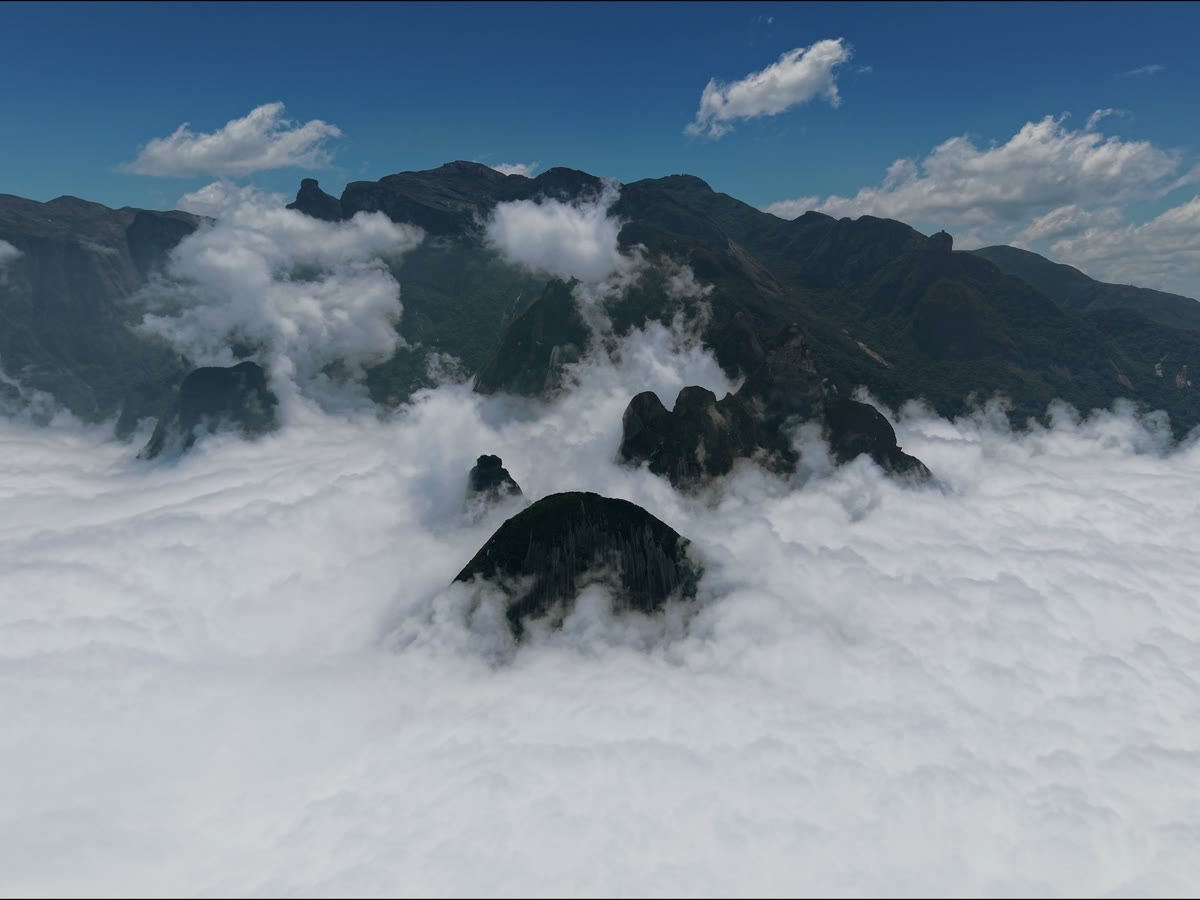
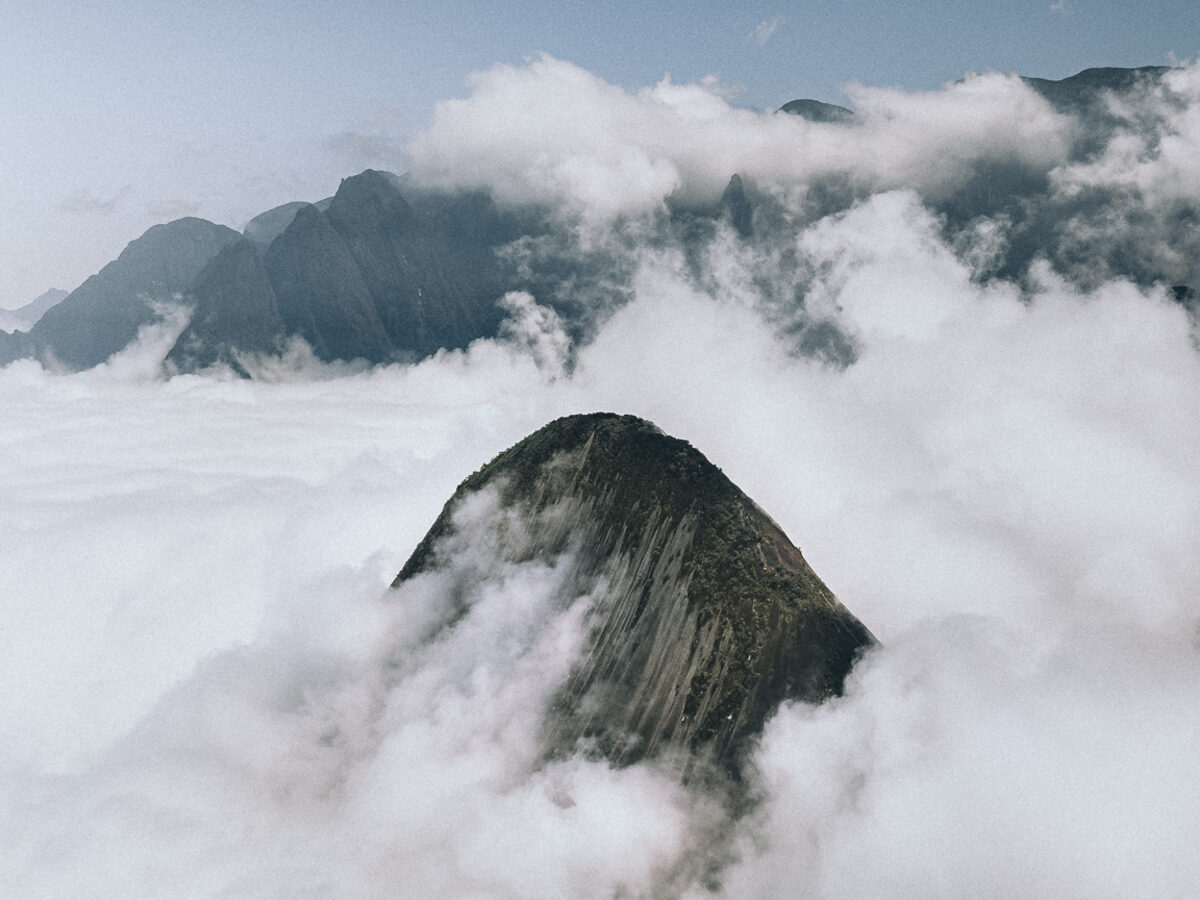
fix: usa as capas oficiais dos Reels em destaque, recortadas em 4:3

diff --git a/app/midiakit/page.tsx b/app/midiakit/page.tsx
@@ -688,8 +688,8 @@ export default function MidiakitPage() {
               <article>
                 <a href="https://www.instagram.com/reel/DeADZizhfHB/">
                   <img
-                    src="/images/quadros/A%20CASA-LENCOIS.jpg"
-                    alt="Casa de palha entre coqueiros nos Lençóis Maranhenses"
+                    src="/media/midiakit/reel-lencois.jpg"
+                    alt="Vista aérea das dunas e lagoas dos Lençóis Maranhenses ao pôr do sol"
                     loading="lazy"
                   />
                   <h3>{"Lençóis Maranhenses ↗"}</h3>
@@ -701,7 +701,7 @@ export default function MidiakitPage() {
                 <a href="https://www.instagram.com/reel/DY4uauDBcj-/">
                   <img
                     src="/media/midiakit/reel-atacama.jpg"
-                    alt="Montanhas refletidas em uma laguna do Atacama"
+                    alt="Vulcão Licancabur sobre o altiplano do Atacama"
                     loading="lazy"
                   />
                   <h3>{"Atacama, Chile ↗"}</h3>
@@ -712,8 +712,8 @@ export default function MidiakitPage() {
               <article>
                 <a href="https://www.instagram.com/reel/DVjv2OIAWjh/">
                   <img
-                    src="/images/portfolio/escalada-cabeca-depeixe.jpg"
-                    alt="Escalador de jaqueta vermelha no Cabeça de Peixe"
+                    src="/media/midiakit/reel-cabeca-de-peixe.jpg"
+                    alt="Henrique de gorro e roupa de escalada, com o céu nublado ao fundo"
                     loading="lazy"
                   />
                   <h3>{"Escalando o Cabeça de Peixe ↗"}</h3>
